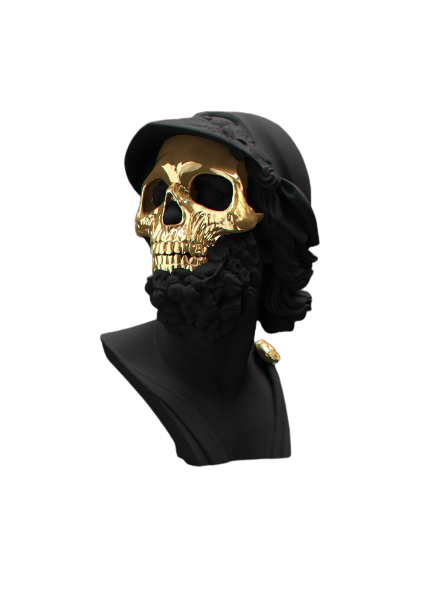
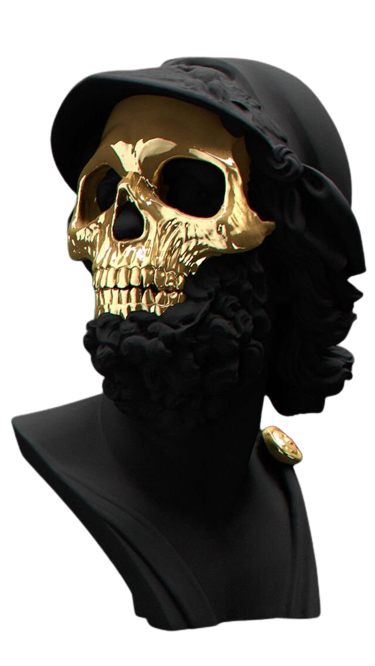
Added mask and a triangle, tried to fix 1st section

diff --git a/index.html b/index.html
@@ -26,20 +26,22 @@
     </header>
     <section class="hero wrapper">
         <div class="d-flex h-center ">
-            <h1 class="big-text b-color txtB">
-                Sculptures
-            </h1>
+            <div class="push">
+                <h1 class="big-text b-color txtB">
+                    Sculptures
+                </h1>
+                <div class="d-flex page">
+                    <p class="active page-nr nr nr-active">1</p>
+                    <p class="page-nr nr">2</p>
+                    <p class="page-nr nr">3</p>
+                </div>
+            </div>
             <div >
                 <img src="/assets/skull.png" class="skull">
+                <img src="assets/tri.png" class="tri">
             </div>
         </div>
 
-        <div class="d-flex page">
-            <p class="active page-nr nr nr-active">1</p>
-            <p class="page-nr nr">2</p>
-            <p class="page-nr nr">3</p>
-        </div>
-       
 
     </section>
     <div>
@@ -97,7 +99,14 @@
     <section class="hero wrapper">
         <div class="d-flex">
             <div >
-                <img src="assets/bustgold.png" alt="">
+                <img src="assets/bustgold.png" class="bust">
+                <div>
+                    <div class="d-flex page">
+                        <p class="page-nr nr">1</p>
+                        <p class="page-nr nr">2</p>
+                        <p class="active page-nr nr nr-active">3</p>
+                    </div>
+                </div>
             </div>
             <div class="p-r">
                 <h1 class="big-text b-color">
@@ -120,20 +129,16 @@
                     the product.
                 </p>
                 <div>
-                    <p class="final">
+                   
+                    <p class="final final-mask">
                         UX/UI
                     </p>
+                    
                 </div>
 
             </div>
         </div>
-        <div>
-            <div class="d-flex page">
-                <p class="page-nr nr">1</p>
-                <p class="page-nr nr">2</p>
-                <p class="active page-nr nr nr-active">3</p>
-            </div>
-        </div>
+        
     </section>
     
 </body>

diff --git a/css/style.css b/css/style.css
@@ -130,6 +130,12 @@ header{
     margin: 0 auto;
     padding: 3em;
 }
+.wrapper2{
+  width: 90%;
+  max-width: 1400px;
+  margin: 0 auto;
+  padding: 3em;
+}
 .w-color{
     background-color: rgb(24, 24, 24);
 
@@ -170,6 +176,10 @@ a{
   text-align: right;
   margin-top: 3em;
 }
+.push{
+  margin-top: 5em;
+}
+
 /*END GLOBAL*/
 /*MAIN*/
 
@@ -186,11 +196,19 @@ a{
     margin-top: 1em;  
 }
 .skull{
-    margin-bottom: 3em;
-    
-    height:800px;
-    width:600px;
-    
+  height: 59em;
+  width: 39em;
+  top: 3%;
+}
+.tri{
+  color: #c6a15b;
+  position: absolute;
+  height: 56em;
+  width: 72em;
+  left: 30%;
+  top: 0.1%;
+  z-index: -1;
+  
 }
 
 .side-menu{
@@ -256,6 +274,10 @@ a{
   height: 440px;
   width: 370px;
 }
+.bust{
+  height: 49em;
+  width: 39em
+}
 .pask{
   color: #d6d6d6 ;
 }
@@ -264,7 +286,10 @@ a{
   color: rgb(53, 53, 53);
 }
 .final-mask{
-
+ background: url(/assets/Gold.png) 0 0 / cover no-repeat;
+ -webkit-background-clip: text;
+ -webkit-text-fill-color: transparent;
+ color: #de466c;
+ margin-bottom: 1em;
 }
-
 /*END MAIN*/
